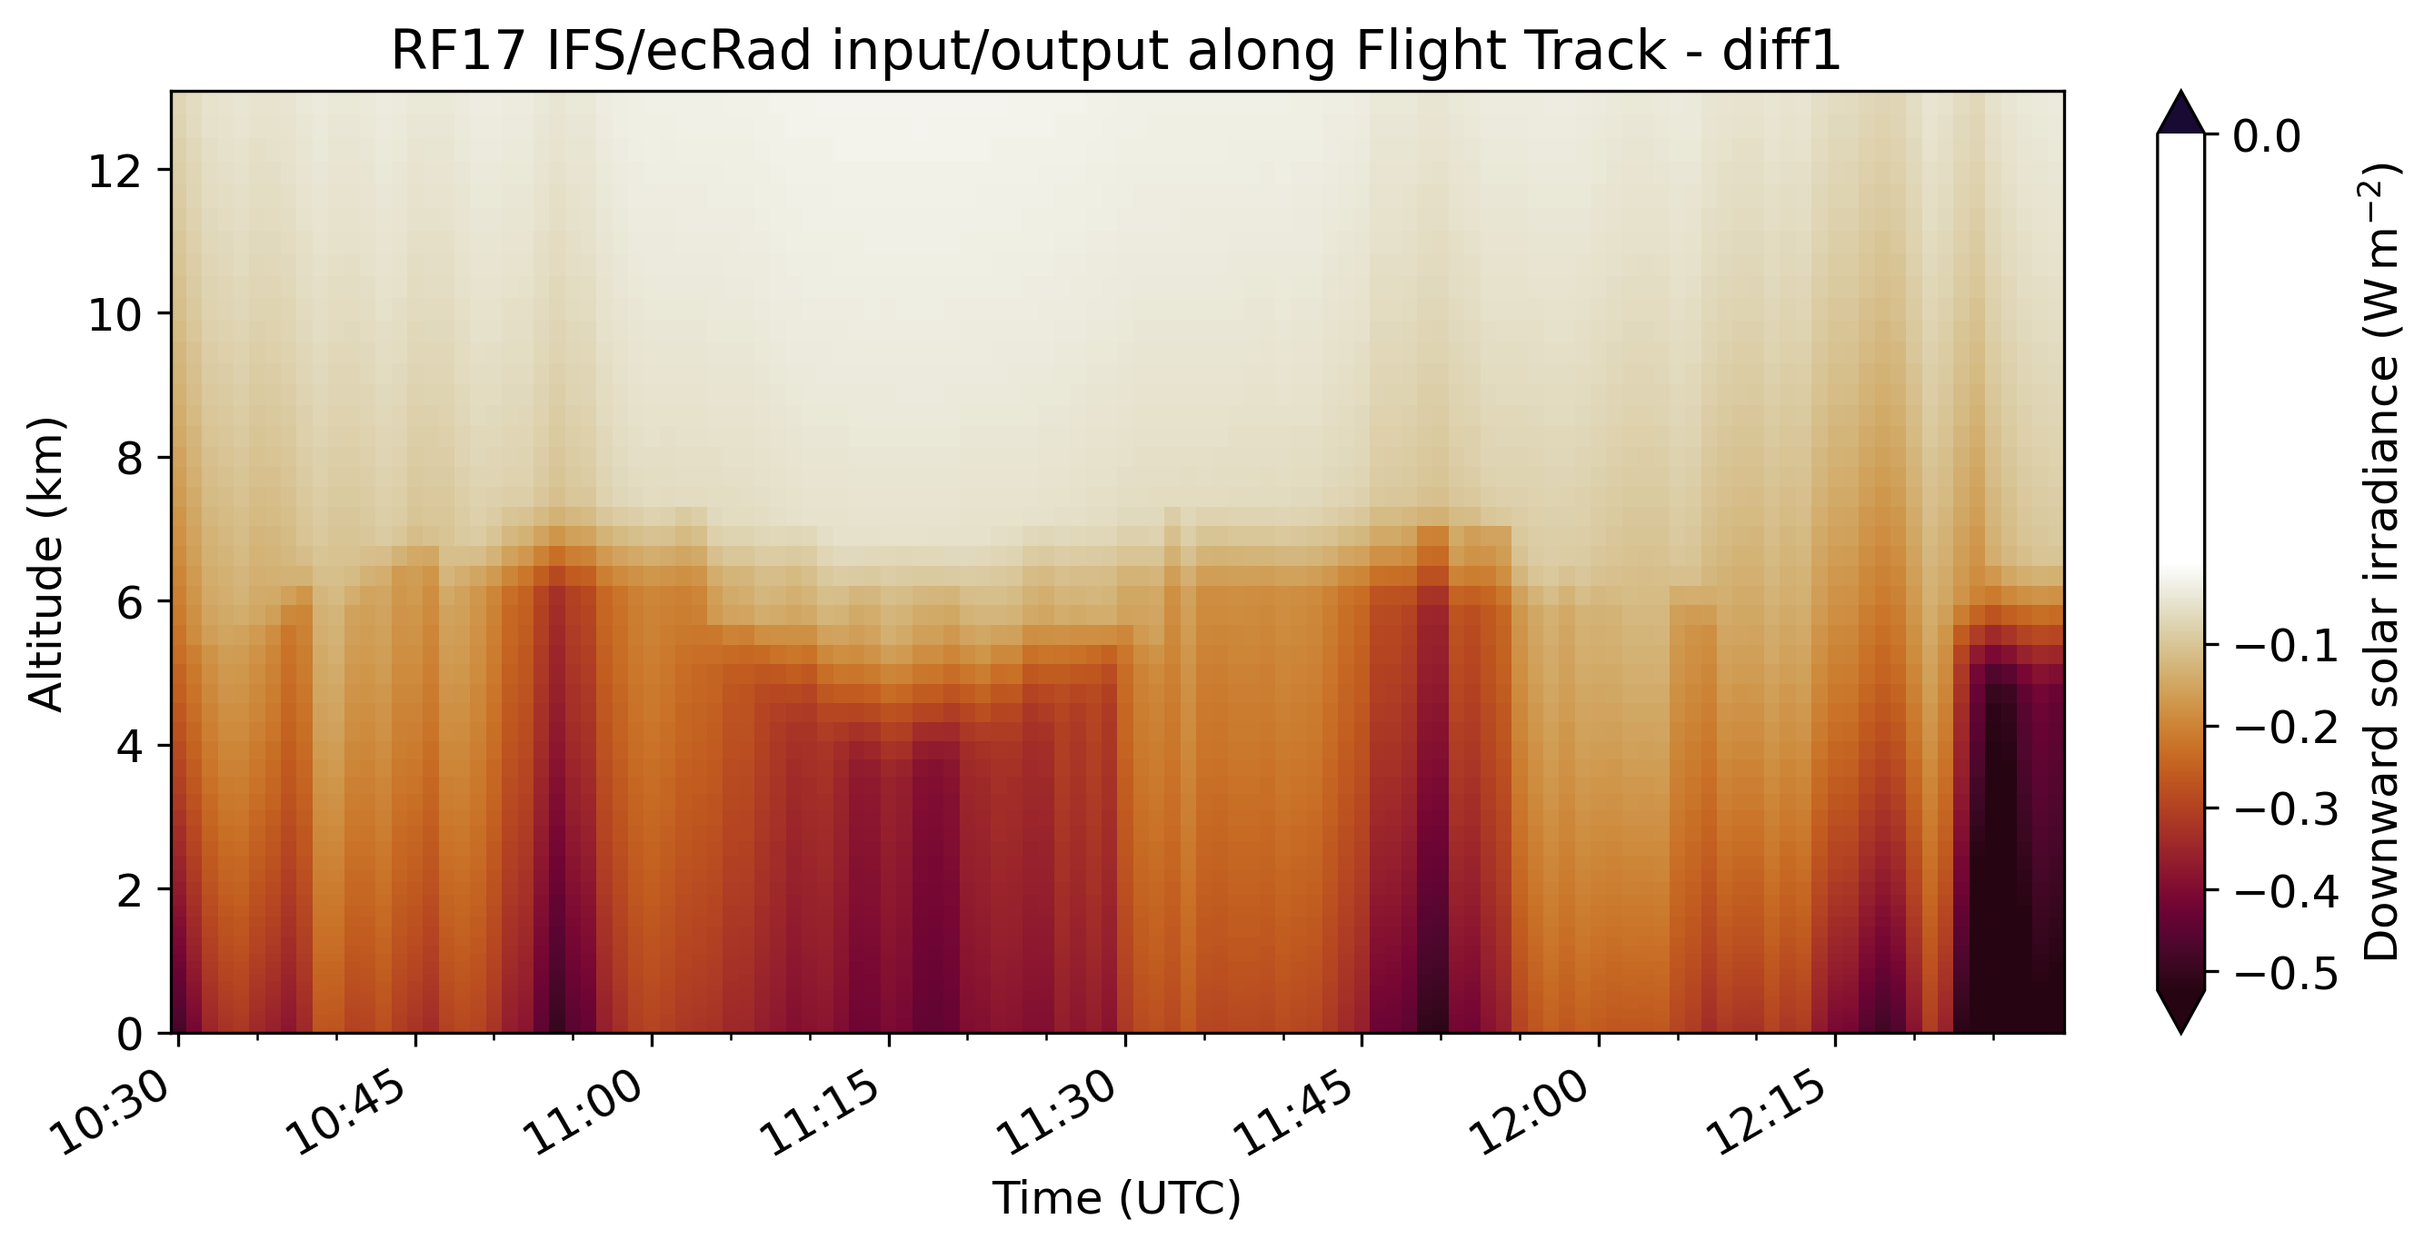
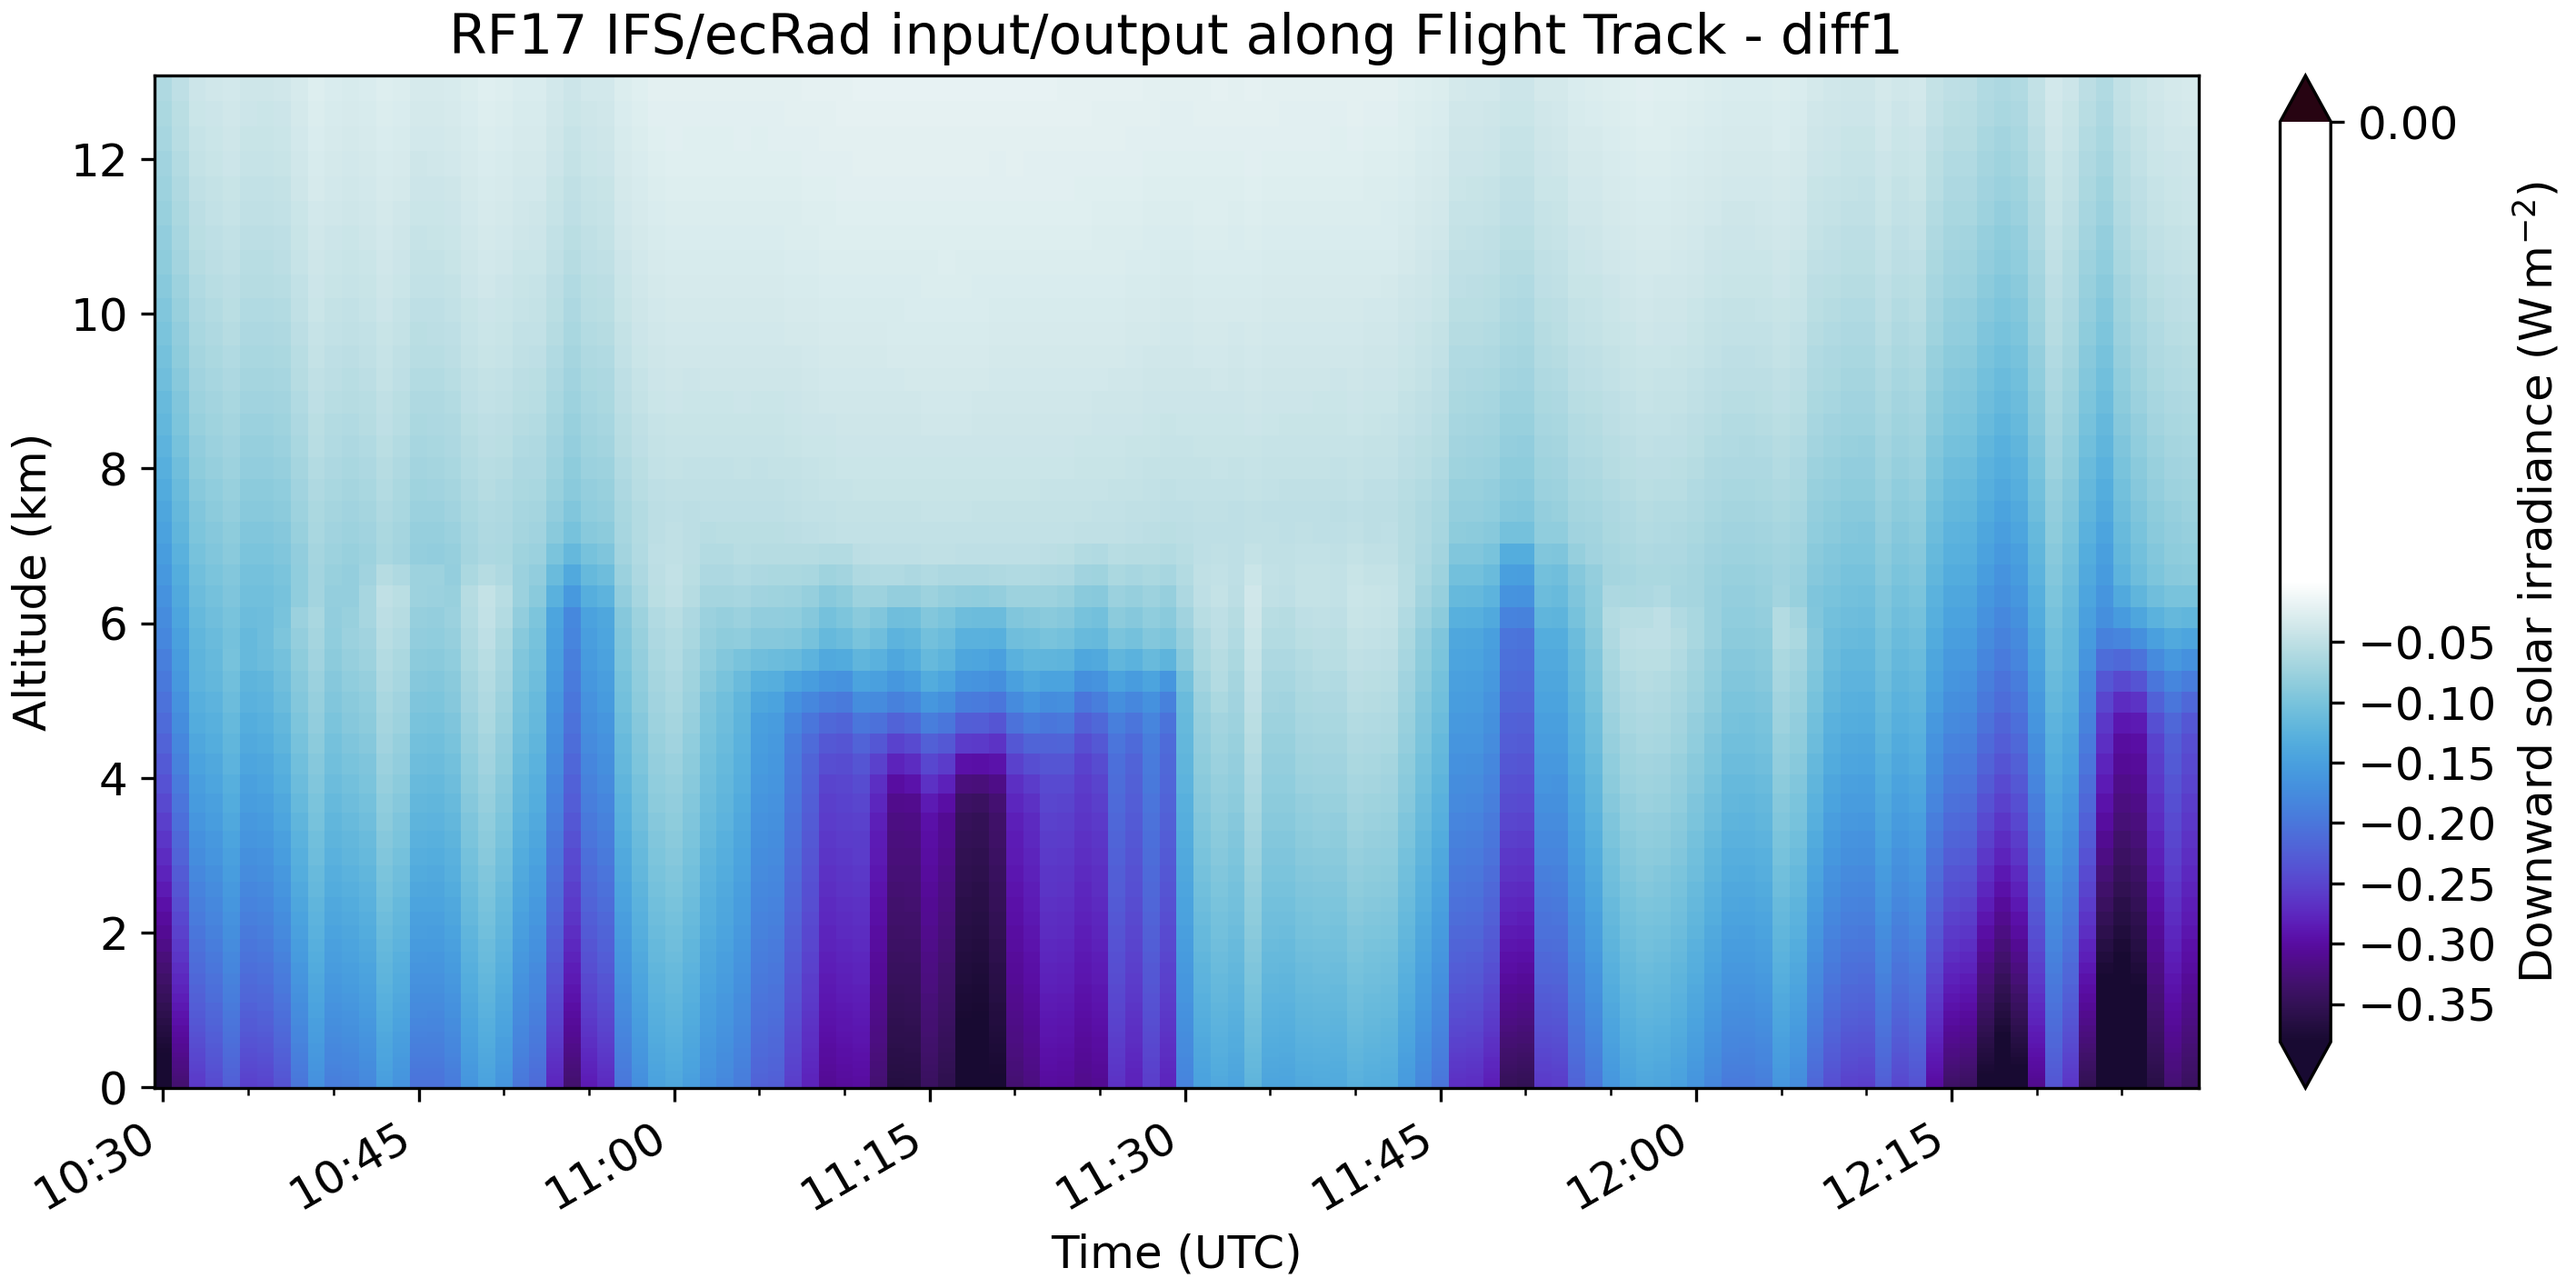
Update analysis of albedo experiment

diff --git a/experiments/ecrad_experiment_v13.py b/experiments/ecrad_experiment_v13.py
@@ -11,8 +11,8 @@ Set the albedo during the whole flight to open ocean (diffuse: 0.06, direct: Tay
 * ``IFS_namelist_jr_20220411_v15.1.nam:``: for RF17 with Fu-IFS ice model using O1280 IFS data (input version v6.1) (**reference simulation**)
 
 **Problem statement:** A clear offset can be observed in the solar downward irradiance below the cloud between ecRad and BACARDI with ecRad showing lower values than BACARDI.
-One idea is that multiple scattering from the sea ice surface to the cloud and back down plays a role here.
-By setting the albedo to open ocean (0.06) we can eliminate this multiple backscattering between cloud and surface.
+One idea is that multiple scattering from the sea ice surface to the cloud and back down plays is a process not captured by the model.
+By setting the albedo to open ocean we can eliminate this multiple backscattering between cloud and surface.
 Comparing this experiment with the standard experiment can show us the potential impact of multiple scattering.
 We also run an experiment where we scale the albedo to 0.99 to see how much more downward irradiance we can observe that way.
 
@@ -64,7 +64,7 @@ See the script for details.
 
     Difference in solar downward irradiance between v15.1 and v13.1 (albedo = 0.99).
 
-By scaling the albedo to an unrealistic value of 0.99 we get a maximum of :math:`0.7\\,Wm^{-2}` difference in solar downward irradiance.
+By scaling the albedo to an unrealistic value of 0.99 we get a maximum of :math:`0.45\\,Wm^{-2}` difference in solar downward irradiance.
 Comparing the spectral albedo of each experiment in :numref:`spectral-albedo-all-experiments` we can also see, that the standard albedo for the scene is already high.
 So increasing it does not seem to be a sensible idea.
 
@@ -74,19 +74,20 @@ So increasing it does not seem to be a sensible idea.
 
     Spectral albedo for all four experiments at one timestep below cloud.
 
-However, what happens if we use the measured albedo from BACARDI for the below cloud simulation which is lower than the one in the IFS but not as low as 0.06?
-Looking at the difference in solar downward irradiance we can see that it is still a positive difference meaning the predicted downward irradiance is still smaller compared to the IFS run.
+However, what happens if we use the measured broadband albedo from BACARDI for the below cloud simulation which is lower than the one in the IFS but not as low as for open ocean?
 
 .. figure:: figures/experiment_v13/HALO-AC3_20220411_HALO_RF17_ecrad_diff2_flux_dn_sw_along_track.png
 
     Difference in solar downward irradiance between v15.1 and v13.2 (albedo from BACARDI).
 
-The comparison with the measurements also show a worse match compared to v15.1.
+Looking at the difference in solar downward irradiance we can see that it is still a positive difference meaning the predicted downward irradiance is still smaller compared to the IFS run.
+The comparison with the measurements also shows a worse match compared to v15.1.
 
-.. figure:: figures/experiment_v13/HALO-AC3_20220411_HALO_RF17_Fdw_solar_bacardi_vs_ecrad_scatter_below_cloud_v13.2.png
+.. figure:: figures/experiment_v13/HALO-AC3_20220411_HALO_RF17_ecrad_flux_dn_sw_below_cloud_boxplot.png
 
 
 From all this we can conclude that **the albedo does not seem to be the major problem** in this scene.
+Or at least, we cannot tweak it in any reasonable way to improve the simulations.
 
 """
 
@@ -120,9 +121,11 @@ if __name__ == "__main__":
     h.make_dir(plot_path)
     ecrad_path = f"{h.get_path('ecrad', campaign=campaign)}/{date}"
     bacardi_path = h.get_path("bacardi", flight, campaign)
-    bacardi_file = f"HALO-AC3_HALO_BACARDI_BroadbandFluxes_{date}_{key}_R1_JR_1Min.nc"
+    bacardi_file = f"HALO-AC3_HALO_BACARDI_BroadbandFluxes_{date}_{key}_R1_JR.nc"
     bahamas_path = h.get_path("bahamas", flight, campaign)
     bahamas_file = f"HALO-AC3_HALO_BAHAMAS_{date}_{key}_v1_1Min.nc"
+    data_path = h.get_path('plot', flight, campaign)
+    stats_file = "statistics.csv"
 
 # %% get flight segments for case study period
     segmentation = ac3airborne.get_flight_segments()["HALO-AC3"]["HALO"][f"HALO-AC3_HALO_{key}"]
@@ -160,18 +163,12 @@ if __name__ == "__main__":
         ds = xr.open_dataset(f"{ecrad_path}/ecrad_merged_inout_{date}_{v}.nc").isel(column=0)
         # select above and below cloud time
         ds = ds.sel(time=case_slice)
+        ds = ds.assign_coords({"sw_albedo_band": range(1, 7)})
         ecrad_dict[v] = ds.copy()
 
-# %% modify data sets
-    for k in ecrad_dict:
-        ds = ecrad_dict[k].copy()
-        # add coordinate values
-        ds = ds.assign_coords({"sw_albedo_band": range(1, 7)})
-
-        # replace inf with nan in ice water path
-        ds["iwp"] = ds.iwp.where(ds.iwp != np.inf, np.nan)
-
-        ecrad_dict[k] = ds.copy()
+# %% read in statistics
+    stats_df = pd.read_csv(f"{data_path}/{stats_file}")
+    # select only relevant versions
 
 # %% prepare metadata for comparing ecRad and BACARDI
     titles = ["Solar Downward Irradiance", "Terrestrial Downward Irradiance", "Solar Upward Irradiance",
@@ -217,7 +214,7 @@ if __name__ == "__main__":
         vmax, vmin = None, None
 
     if "diff" in v:
-        cmap = cmr.fusion
+        cmap = cmr.fusion_r
         norm = colors.TwoSlopeNorm(vcenter=0)
 
     # prepare ecrad dataset for plotting
@@ -280,7 +277,7 @@ if __name__ == "__main__":
     time_extend = pd.to_timedelta((ecrad_plot.time[-1] - ecrad_plot.time[0]).to_numpy())
 
 # %% plot 2D IFS variables along flight track
-    _, ax = plt.subplots(figsize=h.figsize_wide)
+    _, ax = plt.subplots(figsize=h.figsize_wide, layout="constrained")
     # ecrad 2D field
     ecrad_plot.plot(x="time", y="height", cmap=cmap, ax=ax, robust=robust, vmin=vmin, vmax=vmax, alpha=alpha, norm=norm,
                     cbar_kwargs={"pad": 0.04, "label": f"{h.cbarlabels[var]} ({h.plot_units[var]})",
@@ -296,11 +293,9 @@ if __name__ == "__main__":
     ax.set_ylabel("Altitude (km)")
     ax.set_xlabel("Time (UTC)")
     h.set_xticks_and_xlabels(ax, time_extend)
-    plt.tight_layout()
-    figname = f"{plot_path}/{flight}_ecrad_{v}_{var}{band_str}_along_track.png"
-    plt.savefig(figname, dpi=300, bbox_inches="tight")
-    figname = f"{fig_path}/{flight}_ecrad_{v}_{var}{band_str}_along_track.png"
-    plt.savefig(figname, dpi=300, bbox_inches="tight")
+    figname = f"{flight}_ecrad_{v}_{var}{band_str}_along_track.png"
+    plt.savefig(f"{plot_path}/{figname}", dpi=300)
+    plt.savefig(f"{fig_path}/{figname}", dpi=300)
     plt.show()
     plt.close()
 
@@ -310,7 +305,7 @@ if __name__ == "__main__":
     flat_array = ecrad_plot.to_numpy().flatten()
     mean = np.mean(flat_array)
     median = np.median(flat_array)
-    _, ax = plt.subplots(figsize=h.figsize_wide)
+    _, ax = plt.subplots(figsize=h.figsize_wide, layout="constrained")
     hist = ax.hist(flat_array, bins=20)
     ax.set(xlabel=f"{h.cbarlabels[var]} {xlabel} ({h.plot_units[var]})",
            ylabel="Number of occurrence")
@@ -319,11 +314,9 @@ if __name__ == "__main__":
     ax.text(0.75, 0.9, f"Mean: {mean:.2f}" + "W$\,$m$^{-2}$" + f"\nMedian: {median:.2f}" + "W$\,$m$^{-2}$",
             ha='left', va='top', transform=ax.transAxes,
             bbox=dict(fc='white', ec='black', alpha=0.8, boxstyle='round'))
-    plt.tight_layout()
-    figname = f"{plot_path}/{flight}_ecrad_{v}_{var}{band_str}_hist.png"
-    plt.savefig(figname, dpi=300, bbox_inches="tight")
-    figname = f"{fig_path}/{flight}_ecrad_{v}_{var}{band_str}_hist.png"
-    plt.savefig(figname, dpi=300, bbox_inches="tight")
+    figname = f"{flight}_ecrad_{v}_{var}{band_str}_hist.png"
+    plt.savefig(f"{fig_path}/{figname}", dpi=300)
+    plt.savefig(f"{plot_path}/{figname}", dpi=300)
     plt.show()
     plt.close()
 
@@ -369,61 +362,67 @@ if __name__ == "__main__":
     plt.show()
     plt.close()
 
-# %% plot scatterplot of below cloud measurements
-    v = "v13.2"
-    bacardi_plot = bacardi_ds.sel(time=below_slice)
-    ecrad_plot = ecrad_dict[v].isel(half_level=ecrad_dict[v].aircraft_level).sel(time=below_slice)
-    plt.rc("font", size=12)
-    lims = {"v15.1": [(120, 240), (80, 130), (95, 170), (210, 220)], "v13": [(110, 240), (80, 150), (0, 200), (210, 220)],
-            "v13.2": [(110, 240), (80, 150), (0, 200), (210, 220)]}
-    lims = lims[v]
-    for (i, x), y in zip(enumerate(bacardi_vars), ecrad_vars):
-        rmse = np.sqrt(np.mean((ecrad_plot[y] - bacardi_plot[x]) ** 2))
-        bias = np.mean((ecrad_plot[y] - bacardi_plot[x]))
-        _, ax = plt.subplots(figsize=h.figsize_equal)
-        ax.scatter(bacardi_plot[x], ecrad_plot[y], c=cbc[3])
-        ax.axline((0, 0), slope=1, color="k", lw=2, transform=ax.transAxes)
-        ax.set_ylim(lims[i])
-        ax.set_xlim(lims[i])
-        ticks = ax.get_yticks() if i == 0 else ax.get_xticks()
-        ax.set_yticks(ticks)
-        ax.set_xticks(ticks)
-        ax.set_aspect('equal')
-        ax.set_xlabel("BACARDI irradiance (W$\,$m$^{-2}$)")
-        ax.set_ylabel("ecRad irradiance (W$\,$m$^{-2}$)")
-        ax.set_title(f"{titles[i]}\nbelow cloud")
-        ax.grid()
-        ax.text(0.025, 0.95, f"# points: {sum(~np.isnan(bacardi_plot[x])):.0f}\n"
-                             f"RMSE: {rmse.values:.2f}" + " W$\,$m$^{-2}$\n"
-                                                          f"Bias: {bias.to_numpy():.2f}" + " W$\,$m$^{-2}$",
-                ha='left', va='top', transform=ax.transAxes,
-                bbox=dict(fc='white', ec='black', alpha=0.8, boxstyle='round'))
-        plt.tight_layout()
-        figname = f"{plot_path}/{flight}_{names[i]}_bacardi_vs_ecrad_scatter_below_cloud_{v}.png"
-        plt.savefig(figname, bbox_inches="tight", dpi=300)
-        figname = f"{fig_path}/{flight}_{names[i]}_bacardi_vs_ecrad_scatter_below_cloud_{v}.png"
-        plt.savefig(figname, bbox_inches="tight", dpi=300)
-        plt.show()
-        plt.close()
 # %% prepare data for box plot
     values = list()
     for v in ["v15.1", "v13", "v13.1", "v13.2"]:
-        values.append(ecrad_dict[v].flux_dn_sw.isel(half_level=ecrad_dict[v].aircraft_level).sel(time=below_slice).to_numpy())
+        values.append(ecrad_dict[v].flux_dn_sw
+                      .isel(half_level=ecrad_dict[v].aircraft_level)
+                      .sel(time=below_slice)
+                      .to_numpy())
 
-    df = pd.DataFrame({"IFS": values[0], "Open Ocean": values[1],
-                       "Maximum": values[2], "Measured":values[3]})
-    df.to_csv(f"C:/Users/Johannes/Documents/Doktor/manuscripts/2023_arctic_cirrus/figures/{flight}_boxplot_data.csv",
+    df1 = pd.DataFrame({"IFS (v15.1)": values[0], "Open Ocean (v13)": values[1],
+                        "Maximum (v13.1)": values[2], "Measured (v13.2)": values[3]})
+    df2 = (bacardi_ds["F_down_solar_diff"]
+           .sel(time=below_slice)
+           .dropna("time")
+           .to_pandas()
+           .reset_index(drop=True))
+    df2 = pd.DataFrame(df2)
+    df2.columns = ["BACARDI"]
+    df1["label"] = "ecRad"
+    df2["label"] = "BACARDI"
+
+    df1.to_csv(f"C:/Users/Johannes/Documents/Doktor/manuscripts/_arctic_cirrus/figures/{flight}_boxplot_data.csv",
               index=False)
 
+    df = pd.concat([df2, df1])
+
 # %% plot boxplots of solar downward irradiance below cloud for each experiment
-    plt.rc("font", size=7)
-    _, ax = plt.subplots(figsize=(8*h.cm, 8*h.cm))
+    plt.rc("font", size=12)
+    _, ax = plt.subplots(figsize=h.figsize_wide, layout="constrained")
     sns.boxplot(df, notch=True, ax=ax)
     ax.set_ylabel("Solar downward irradiance (W$\,$m$^{-2}$)")
-    plt.tight_layout()
-    figname = f"{plot_path}/{flight}_ecrad_flux_dn_sw_below_cloud_boxplot.png"
-    plt.savefig(figname, dpi=300)
+    ax.grid()
+    figname = f"{flight}_ecrad_flux_dn_sw_below_cloud_boxplot.png"
+    plt.savefig(f"{plot_path}/{figname}", dpi=300)
+    plt.savefig(f"{fig_path}/{figname}", dpi=300)
     plt.show()
     plt.close()
 
-# %% plot comparison of transmissivity
+# %% plot PDF of below cloud variables
+    var = "F_down_solar_diff"
+    ecrad_var = "flux_dn_sw"
+    v = "v15.1"
+    bacardi_plot = bacardi_ds[var].sel(time=below_slice)
+    ecrad_plot = (ecrad_dict[v][ecrad_var]
+                  .isel(half_level=ecrad_dict[v].aircraft_level)
+                  .sel(time=below_slice))
+    binsize = 10
+    bins = np.arange(np.round(bacardi_plot.min() - 10),
+                     np.round(bacardi_plot.max() + 10),
+                     binsize)
+    plt.rc("font", size=12)
+    _, ax = plt.subplots(figsize=h.figsize_wide, layout="constrained")
+
+    sns.histplot(bacardi_plot, label="BACARDI", stat="density", bins=bins,
+                 element="step", ax=ax,)
+    sns.histplot(ecrad_plot.to_numpy().flatten(), label=f"ecRad {v}",
+                 stat="density", element="step", bins=bins, ax=ax)
+
+    ax.grid()
+    ax.legend()
+    ax.set(xlabel=f"{h.cbarlabels[ecrad_var]} ({h.plot_units[ecrad_var]})")
+    figname = f"{fig_path}/{flight}_{ecrad_var}_bacardi_vs_ecrad_{v}.png"
+    # plt.savefig(figname, bbox_inches="tight", dpi=300)
+    plt.show()
+    plt.close()

diff --git a/docs/experiments.rst b/docs/experiments.rst
@@ -159,6 +159,8 @@ Ice Mass Mixing Ratio Experiment
 Fixed Albedo Experiment
 -----------------------
 
+**Input files for ecRad**
+
 *Script:* :py:mod:`experiments.ecrad_write_input_files_v5.py`
 
 .. automodule:: experiments.ecrad_write_input_files_v5
@@ -166,6 +168,12 @@ Fixed Albedo Experiment
 *Script:* :py:mod:`experiments.ecrad_write_input_files_v5_1.py`
 
 .. automodule:: experiments.ecrad_write_input_files_v5_1
+
+*Script:* :py:mod:`experiments.ecrad_write_input_files_v5_2.py`
+
+.. automodule:: experiments.ecrad_write_input_files_v5_2
+
+**Analysis**
 
 *Script:* :py:mod:`experiments.ecrad_experiment_v13.py`
 
@@ -187,6 +195,14 @@ Inhomogeneity test (fractional_std)
 *Script:* :py:mod:`experiments.ecrad_experiment_v36.py`
 
 .. automodule:: experiments.ecrad_experiment_v36
+
+
+Direct sea ice albdeo
+---------------------
+
+*Script:* :py:mod:`experiments.ecrad_new_direct_sea_ice_albedo.py`
+
+.. automodule:: experiments.ecrad_new_direct_sea_ice_albedo
 
 
 ecRad Setups
